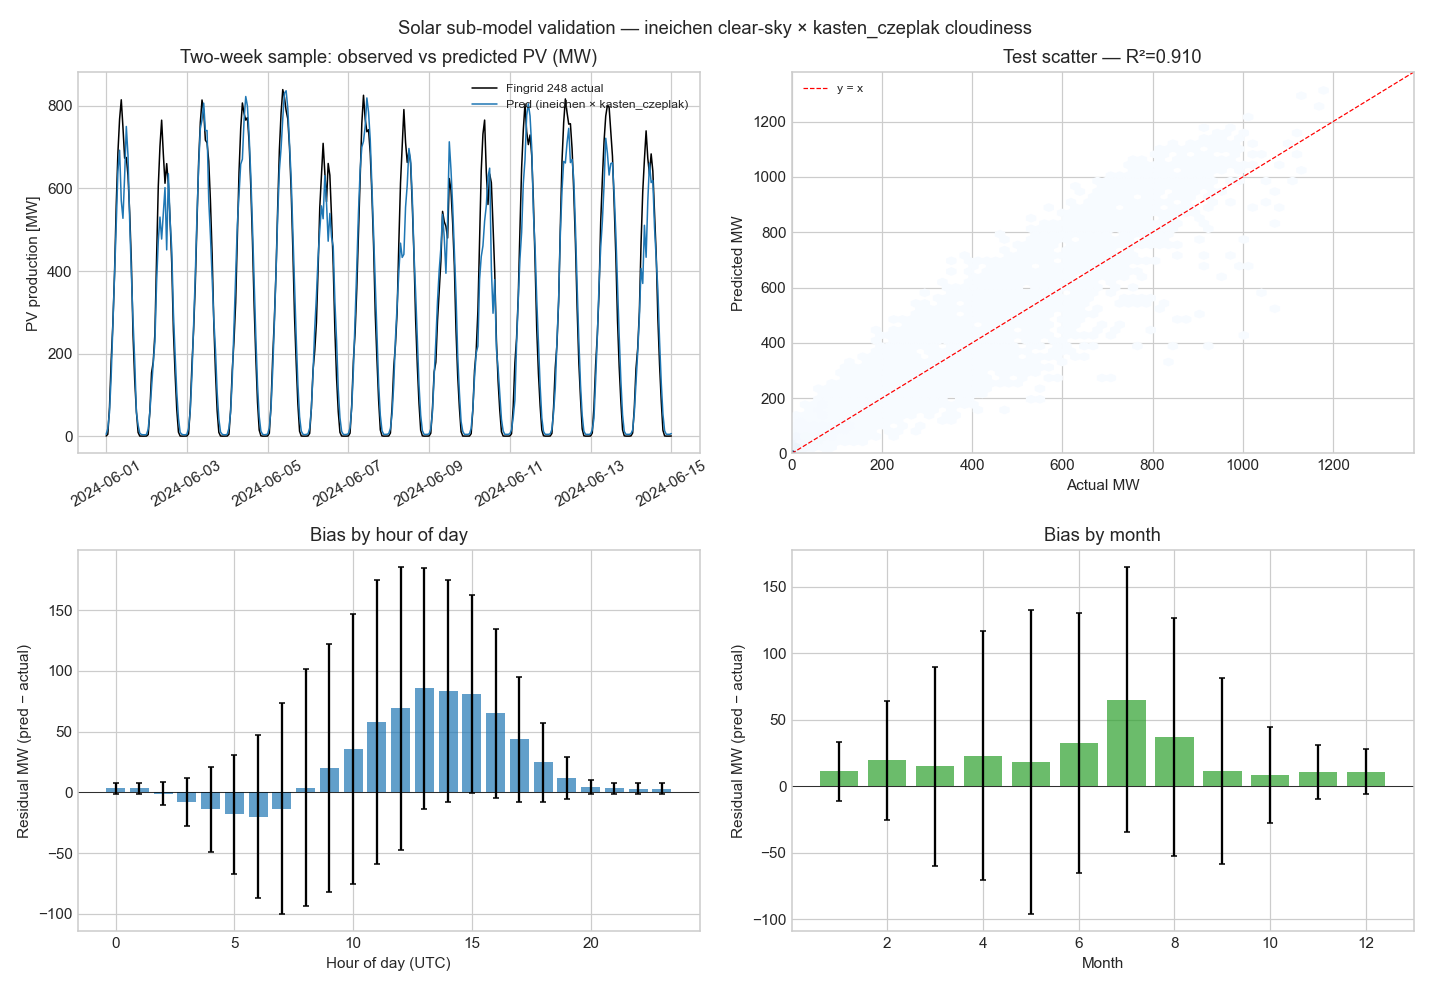
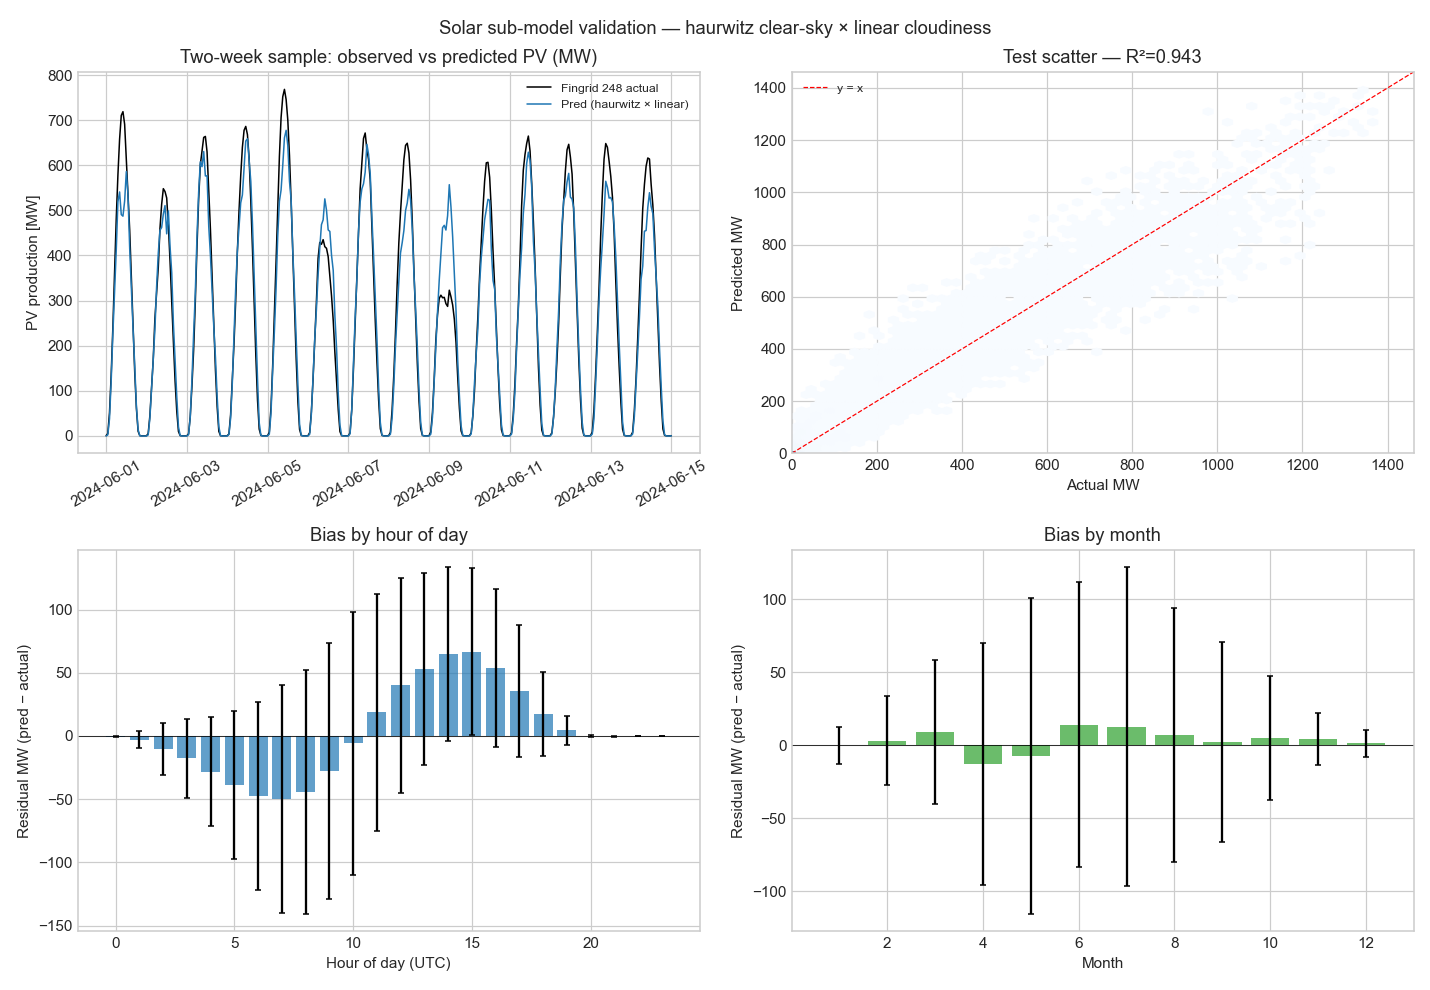
exp: refresh the solar sub-model report for the 247 target
R2 0.9425 / MAE 38.73 MW / bias +3.35 MW, against 0.9350 / 43.19 / +21.35
for the old live-fetch 248 target.

diff --git a/studies/results/solar_clear_sky_submodel.md b/studies/results/solar_clear_sky_submodel.md
@@ -1,9 +1,9 @@
 # Solar production sub-model — v2.5.3 (isolated training and validation)
 
-**Window:** 2023-01-01 → 2026-05-13 (29,496 hourly rows)
+**Window:** 2023-01-01 → 2026-10-09 (33,049 hourly rows)
 **Train / test split:** chronological 70 / 30
 **Ground truth:** Fingrid dataset 248 (Finnish solar generation)
-**Capacity reference:** Fingrid dataset 267 (mean 1132 MW; latest 1741 MW)
+**Capacity reference:** Fingrid dataset 267 (mean 1222 MW; latest 2074 MW)
 **Cloudiness:** Open-Meteo `cloud_cover` (capacity-weighted across 7 FI sites; same weights as the production wind/solar features)
 
 ## Architecture
@@ -27,30 +27,30 @@ production_MW(t) = capacity_MW(t)
 
 | Clear-sky | Modulator | MAE [MW] | MAE-daylight [MW] | rel. MAE-daylight | R² | bias [MW] |
 |---|---|---:|---:|---:|---:|---:|
-| haurwitz | kasten_czeplak | 44.84 | 80.70 | 26.1 % | 0.907 | 21.13 |
-| haurwitz | linear | 45.15 | 83.60 | 27.0 % | 0.914 | 29.54 |
-| ineichen | kasten_czeplak **(winner)** | 44.26 | 80.69 | 26.1 % | 0.910 | 21.98 |
-| ineichen | linear | 47.73 | 84.13 | 27.2 % | 0.917 | 30.60 |
+| haurwitz | kasten_czeplak | 46.80 | 84.18 | 23.4 % | 0.915 | -7.00 |
+| haurwitz | linear **(winner)** | 38.73 | 74.89 | 20.8 % | 0.943 | 3.35 |
+| ineichen | kasten_czeplak | 46.52 | 84.94 | 23.6 % | 0.915 | -5.36 |
+| ineichen | linear | 41.28 | 75.81 | 21.1 % | 0.942 | 5.04 |
 
-## Winner: **ineichen** clear-sky × **kasten_czeplak** modulator
+## Winner: **haurwitz** clear-sky × **linear** modulator
 
-- Test R² = **0.910**
-- Test MAE-daylight = **80.69 MW** (26.1 % of mean daylight production)
-- Bias = +21.98 MW
-- Fitted parameters: (3.259511875272399, 1.069826068414042)
+- Test R² = **0.943**
+- Test MAE-daylight = **74.89 MW** (20.8 % of mean daylight production)
+- Bias = +3.35 MW
+- Fitted parameters: (-0.39908293028309655, 1.0009640345097115, 0.49948503698918106, 1.0074812218479026)
 
 ## Verdict
 
-- **Tier-A absolute gate (R² ≥ 0.85):** PASS (0.910).
+- **Tier-A absolute gate (R² ≥ 0.85):** PASS (0.943).
 - **Isolation invariant:** the sub-model consumes only 
   `(timestamp, lat, lon)` and `cloud_cover(t)`. No price-side 
   input. Errors cannot propagate via FI fit. **HONOURED.**
 
 ## Dataset summary
 
-- Production: mean 128.9 MW, peak 1179 MW
-- Capacity grew from 606 MW → 1741 MW over the window
-- Cloud cover: mean 70.2 %, median 77.3 %
+- Production: mean 141.5 MW, peak 1365 MW
+- Capacity grew from 606 MW → 2074 MW over the window
+- Cloud cover: mean 70.1 %, median 76.9 %
 
 ## Figure
 
